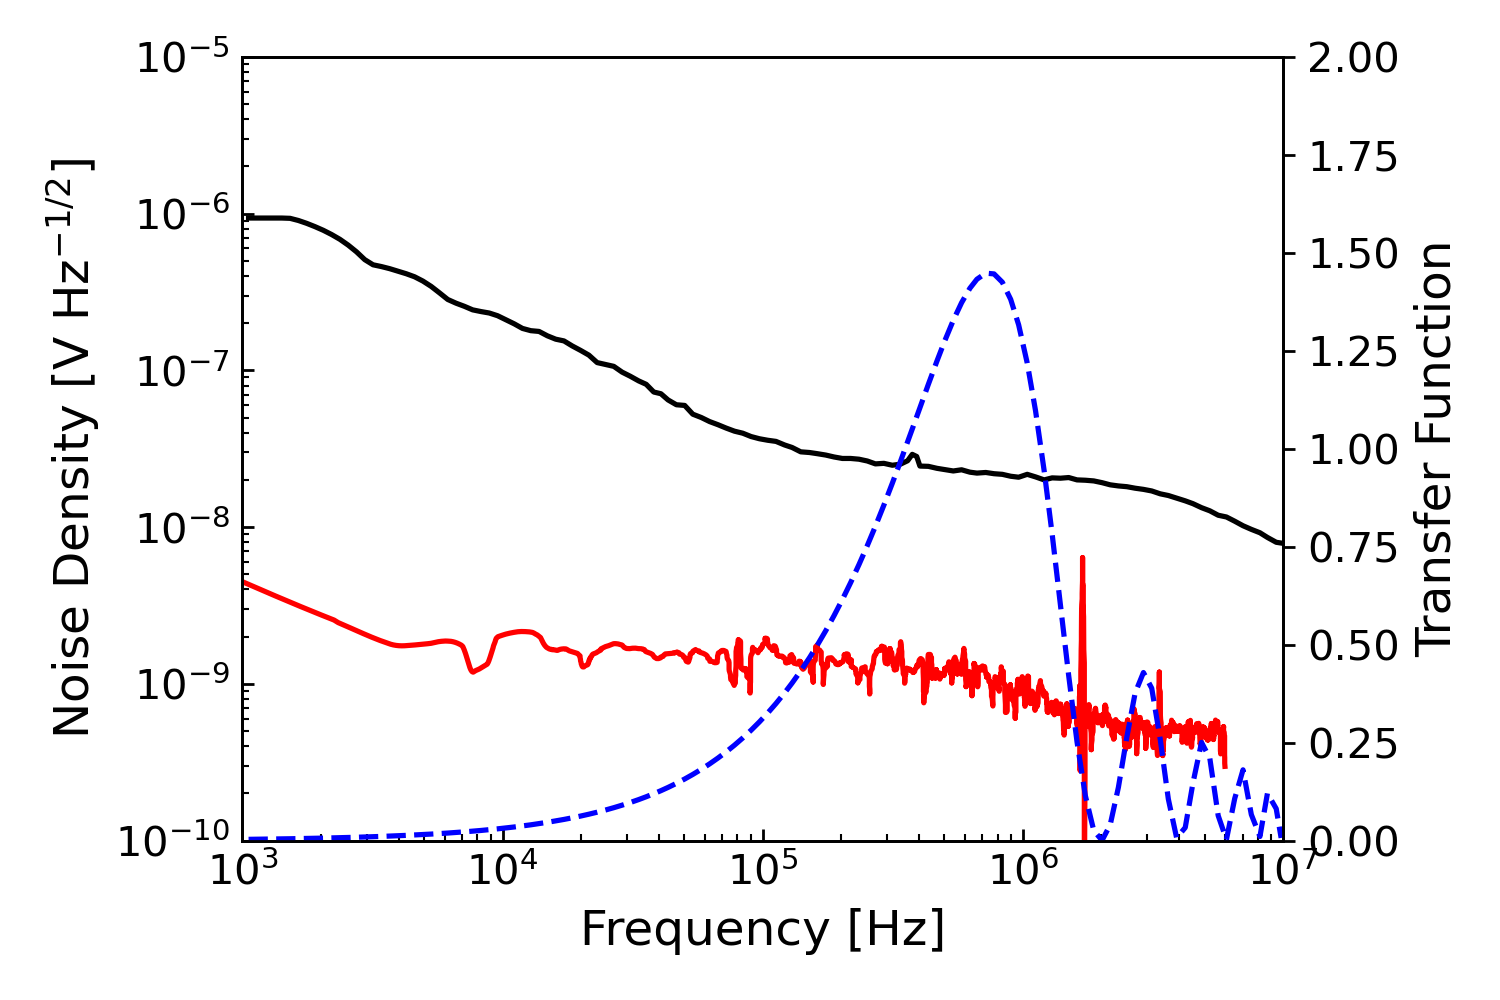
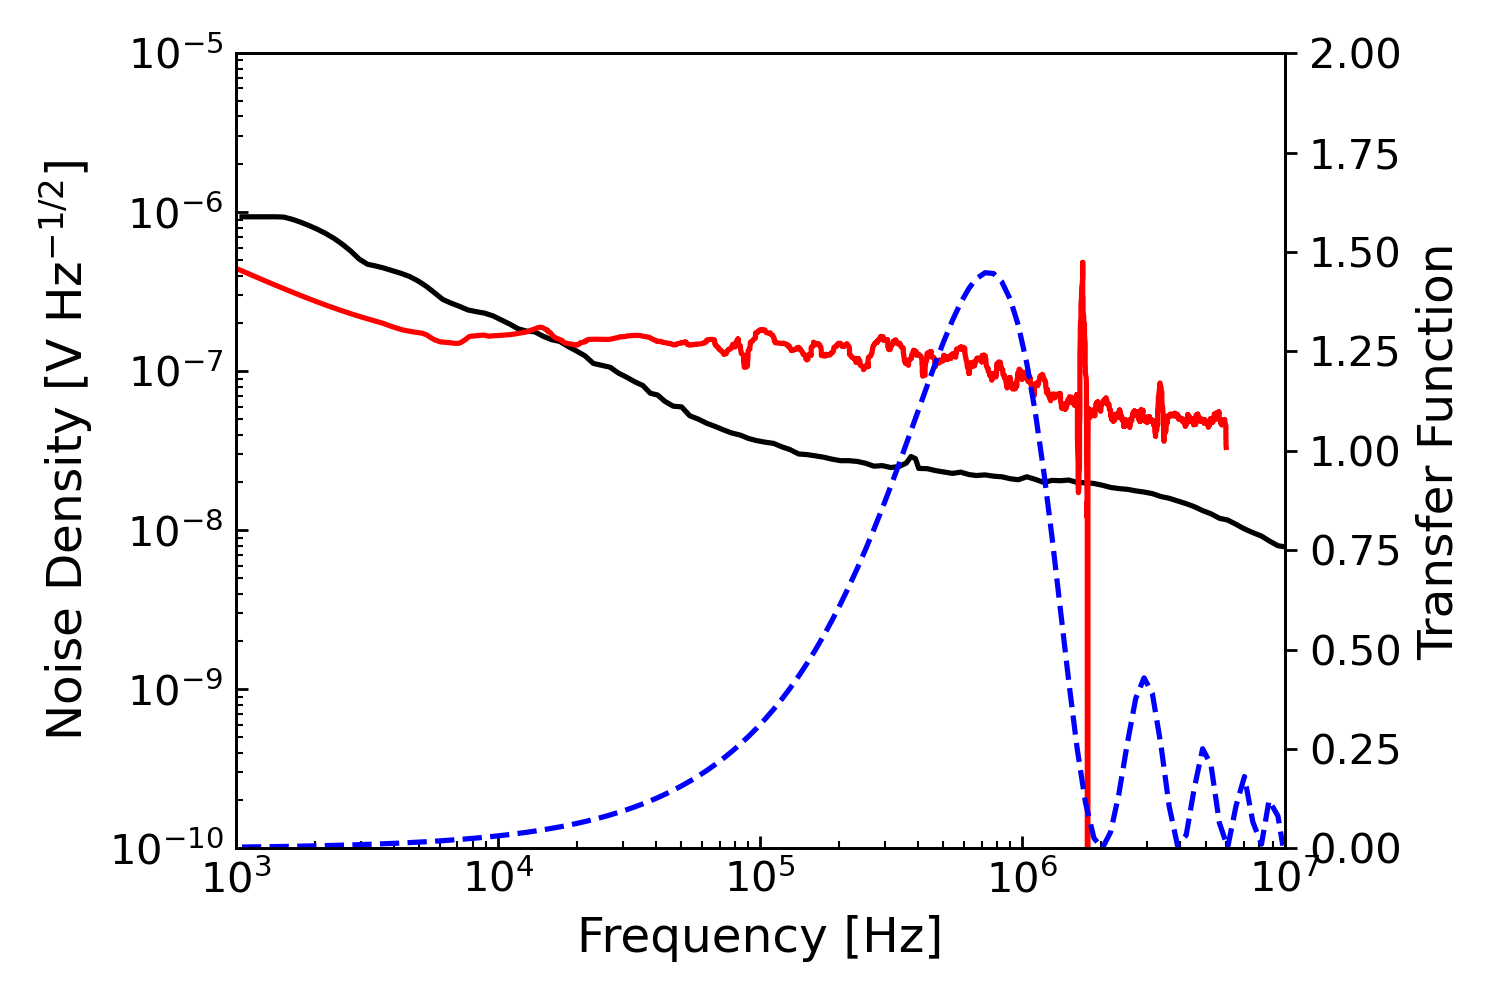
Update noise

diff --git a/CCDs/Skipper_Noise/skipper_noise_modeling.py b/CCDs/Skipper_Noise/skipper_noise_modeling.py
@@ -19,7 +19,7 @@ from astropy.modeling import Fittable1DModel, Parameter
 from scipy.signal import savgol_filter
 # BP Import needed packages.
 
-machine = 'Linux'
+machine = 'Desktop'
 # BP Define what machine code is being run on to save files. For internal use only.
 
 if machine == 'Linux':
@@ -222,7 +222,7 @@ nc_1f = 100 * u.kHz
 nc_1f2 = 100 * u.kHz#2e6 * u.Hz # Nominally 100 * u.kHz
 # BP Define noise corners.
 
-n_skips = 512
+n_skips = 4096
 # BP Define number of skips.
 
 n_pix_x = 4000
@@ -233,11 +233,11 @@ n_pix = n_pix_x * n_pix_y
 n_amp = 128
 # BP Define number of amplifiers.
 
-conversion = 6.5e-6 * u.V/u.electron
+conversion = 2.5e-6 * u.V/u.electron
 # Steve recommended 5e-6 - 2.5e6
 
 ax.plot(taus, total_noise_model(1, wn_floor, taus, nc_1f, nc_1f2, conversion), label='Traditional CCD', color=plot_colors[1])
-ax.plot(taus * n_skips, total_noise_model(n_skips, wn_floor, taus, nc_1f, nc_1f2, conversion), label='512 Skips', color=plot_colors[1], ls='--')
+ax.plot(taus * n_skips, total_noise_model(n_skips, wn_floor, taus, nc_1f, nc_1f2, conversion), label='{:.0f} Skips'.format(n_skips), color=plot_colors[1], ls='--')
 ax.axhline(0.15, color=plot_colors[3], ls=':', label='0.15 e$^-$ threshold')
 # BP Plot total integrated noise using theoretical model.
 
@@ -272,7 +272,7 @@ noise_density = np.array(noise_spectrum[1]) * u.V / (u.Hz**0.5)
 
 lta_noise_freqs = np.array(lta_noise_spectrum[0]) * u.Hz
 lta_noise_density = np.array(lta_noise_spectrum[1]) 
-lta_noise_density = savgol_filter(lta_noise_density, 50, 3) * u.nV / (u.Hz**0.5)
+lta_noise_density = savgol_filter(lta_noise_density, 100, 3) * u.nV / (u.Hz**0.5)
 # BP Extract noise frequencies and densities from data.
 
 opt_speed = 1/(1000*u.kHz)
@@ -285,7 +285,7 @@ ax2 = ax.twinx()
 
 ax2.plot(noise_freqs, cds_transfer, color = 'blue', ls='--')
 ax.plot(noise_freqs, noise_density, color='black', ls='-')
-ax.plot(lta_noise_freqs, lta_noise_density, color='red', ls='-')
+ax.plot(lta_noise_freqs, lta_noise_density*100, color='red', ls='-')
 # BP plot noise spectrum and CDS function.
 
 ax.set_xlabel(r'Frequency [Hz]')
@@ -307,6 +307,10 @@ plt.savefig(path + '/Research/CCDs/Skipper_Noise/sta_noise_spectrum.png', dpi=25
 plt.show()
 
 stop
+
+
+
+
 
 fig, ax = plt.subplots(1, 1, figsize=(6,4.5), layout='tight')
 ax3 = ax.twiny()
